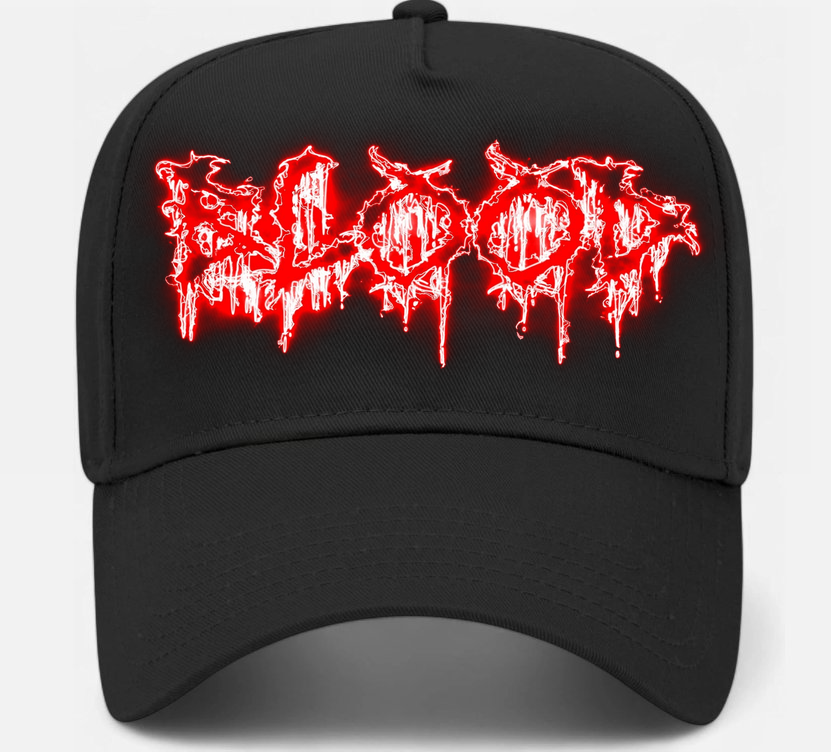
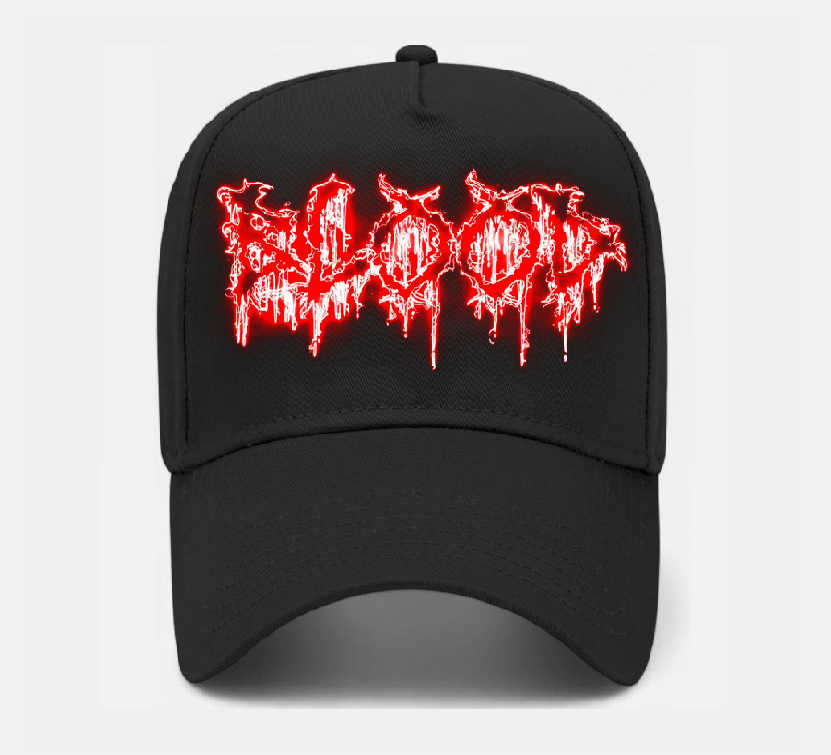
Feat: add gorra merch

diff --git a/src/app/core/merch/merch.ts b/src/app/core/merch/merch.ts
@@ -50,6 +50,15 @@ export class Merch {
       size: 'S • M • L • XL',
       description: 'Limited edition hoodie with red logo artwork.'
     }
+    ,
+
+    {
+      name: 'Gorra Blood Legacy',
+      price: '$120.000 COP',
+      image: 'images/gorra.png',
+      size: 'Unica',
+      description: 'Limited edition hoodie with red logo artwork.'
+    }
 
   ];
 